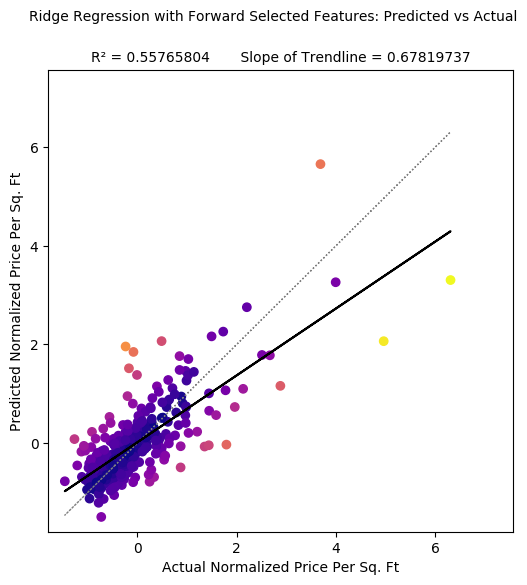
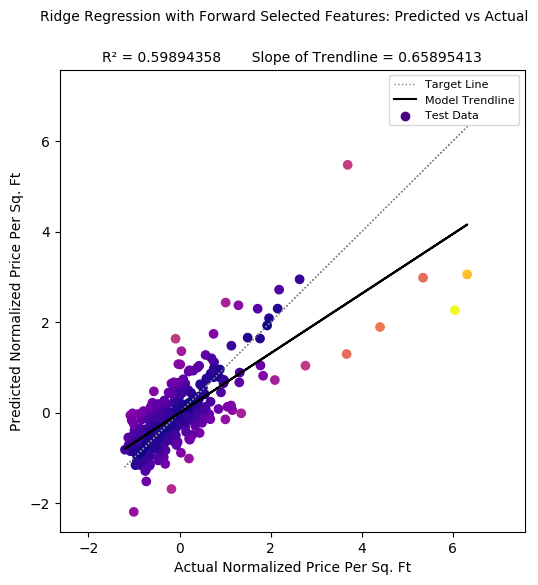
update ridge, add discussion on feature reduction

diff --git a/index.md b/index.md
@@ -45,6 +45,8 @@ We also used this linear model to test how effective our feature reduction worke
 When using features selected by our feed forward feature reduction process the average R<sup>2</sup> value was **0.5975599545286328** (with standard deviation: 0.07512821208305448).
 This shows that in many cases the feature reduction actually ***decreases*** accuracy.
 
+Below are two examples of reuslts from an instance of our linear regression model, one with full features and one with reduced features (reduced by our feedforward implementation):
+
 <img src="images/linearreg.png" alt="drawing" width="410"/>
 <img src="images/linearForward.png" alt="drawing" width="410"/>
 
@@ -56,10 +58,12 @@ The average R<sup>2</sup> value for models using only forward selection features
 
 The R<sup>2</sup> value of approximately **0.60** shows that over half of the variation amongst the data can be explained by the model's inputs. This relationship between the demographic data which has been collected and the average price per sq. ft in a county as recorded by the Zillow Rent Index is encouraging in showing the effectivity of regression models utilizing the dataset.
 
-<img src="images/raw_ridge_regression.png" alt="drawing" width="410"/>
-<img src="images/forward_selection_ridge_regression.png" alt="drawing" width="410"/>
+Below are two examples of reuslts from an instance of our ridge regression model, one with full features and one with reduced features (reduced by our feedforward implementation):
 
-With the reduction of features using forward selection, a hope was to see an increase in the value of R<sup>2</sup> for the model. As the values for R<sup>2</sup> for each model were within the standard deviations from the mean, there is negligble difference in the determination coefficient using forward selection features. While this aspect was not improved, an analysis of the **Predicted Normalized Price Per Sq. Ft** versus the **Actual Normalized Price Per Sq. Ft** for each model shows a tendency to underestimate when making predictions. A trendline with a slope of 1 shows neither a tendency to underestimate or overestimate. The use of forward selection features increased the slope of the trendline from **0.57657903** to **0.755802** showing significant reduction of the tendency to underestimate.
+<img src="images/ridgeRaw.png" alt="drawing" width="410"/>
+<img src="images/ridgeFeatures.png" alt="drawing" width="410"/>
+
+With the reduction of features using forward selection, a hope was to see an increase in the value of R<sup>2</sup> for the model. As the values for R<sup>2</sup> for each model were within the standard deviations from the mean, there is negligble difference in the determination coefficient using forward selection features. While this aspect was not improved, an analysis of the **Predicted Normalized Price Per Sq. Ft** versus the **Actual Normalized Price Per Sq. Ft** for each model shows a tendency to underestimate when making predictions. A trendline with a slope of 1 shows neither a tendency to underestimate or overestimate.
 
 
 #### Lasso Regression
@@ -100,6 +104,11 @@ substantially outperforming the other linear models.
 
 #### Neural Networks
 <img src="images/neural_network.png" alt="drawing" width="410"/></p>
+
+
+## Discussion on Feature Reduction
+Our feature reduction approaches resulted in no performance change or a slight decrease in model performances on linear and ridge regression.
+Because of this we decided that the feature reduction approaches we used would not be effective for our data and opted to use the full feature set on the remaining models.
 
 ## Conclusion
 (Old Conclusion - checkpoint)
